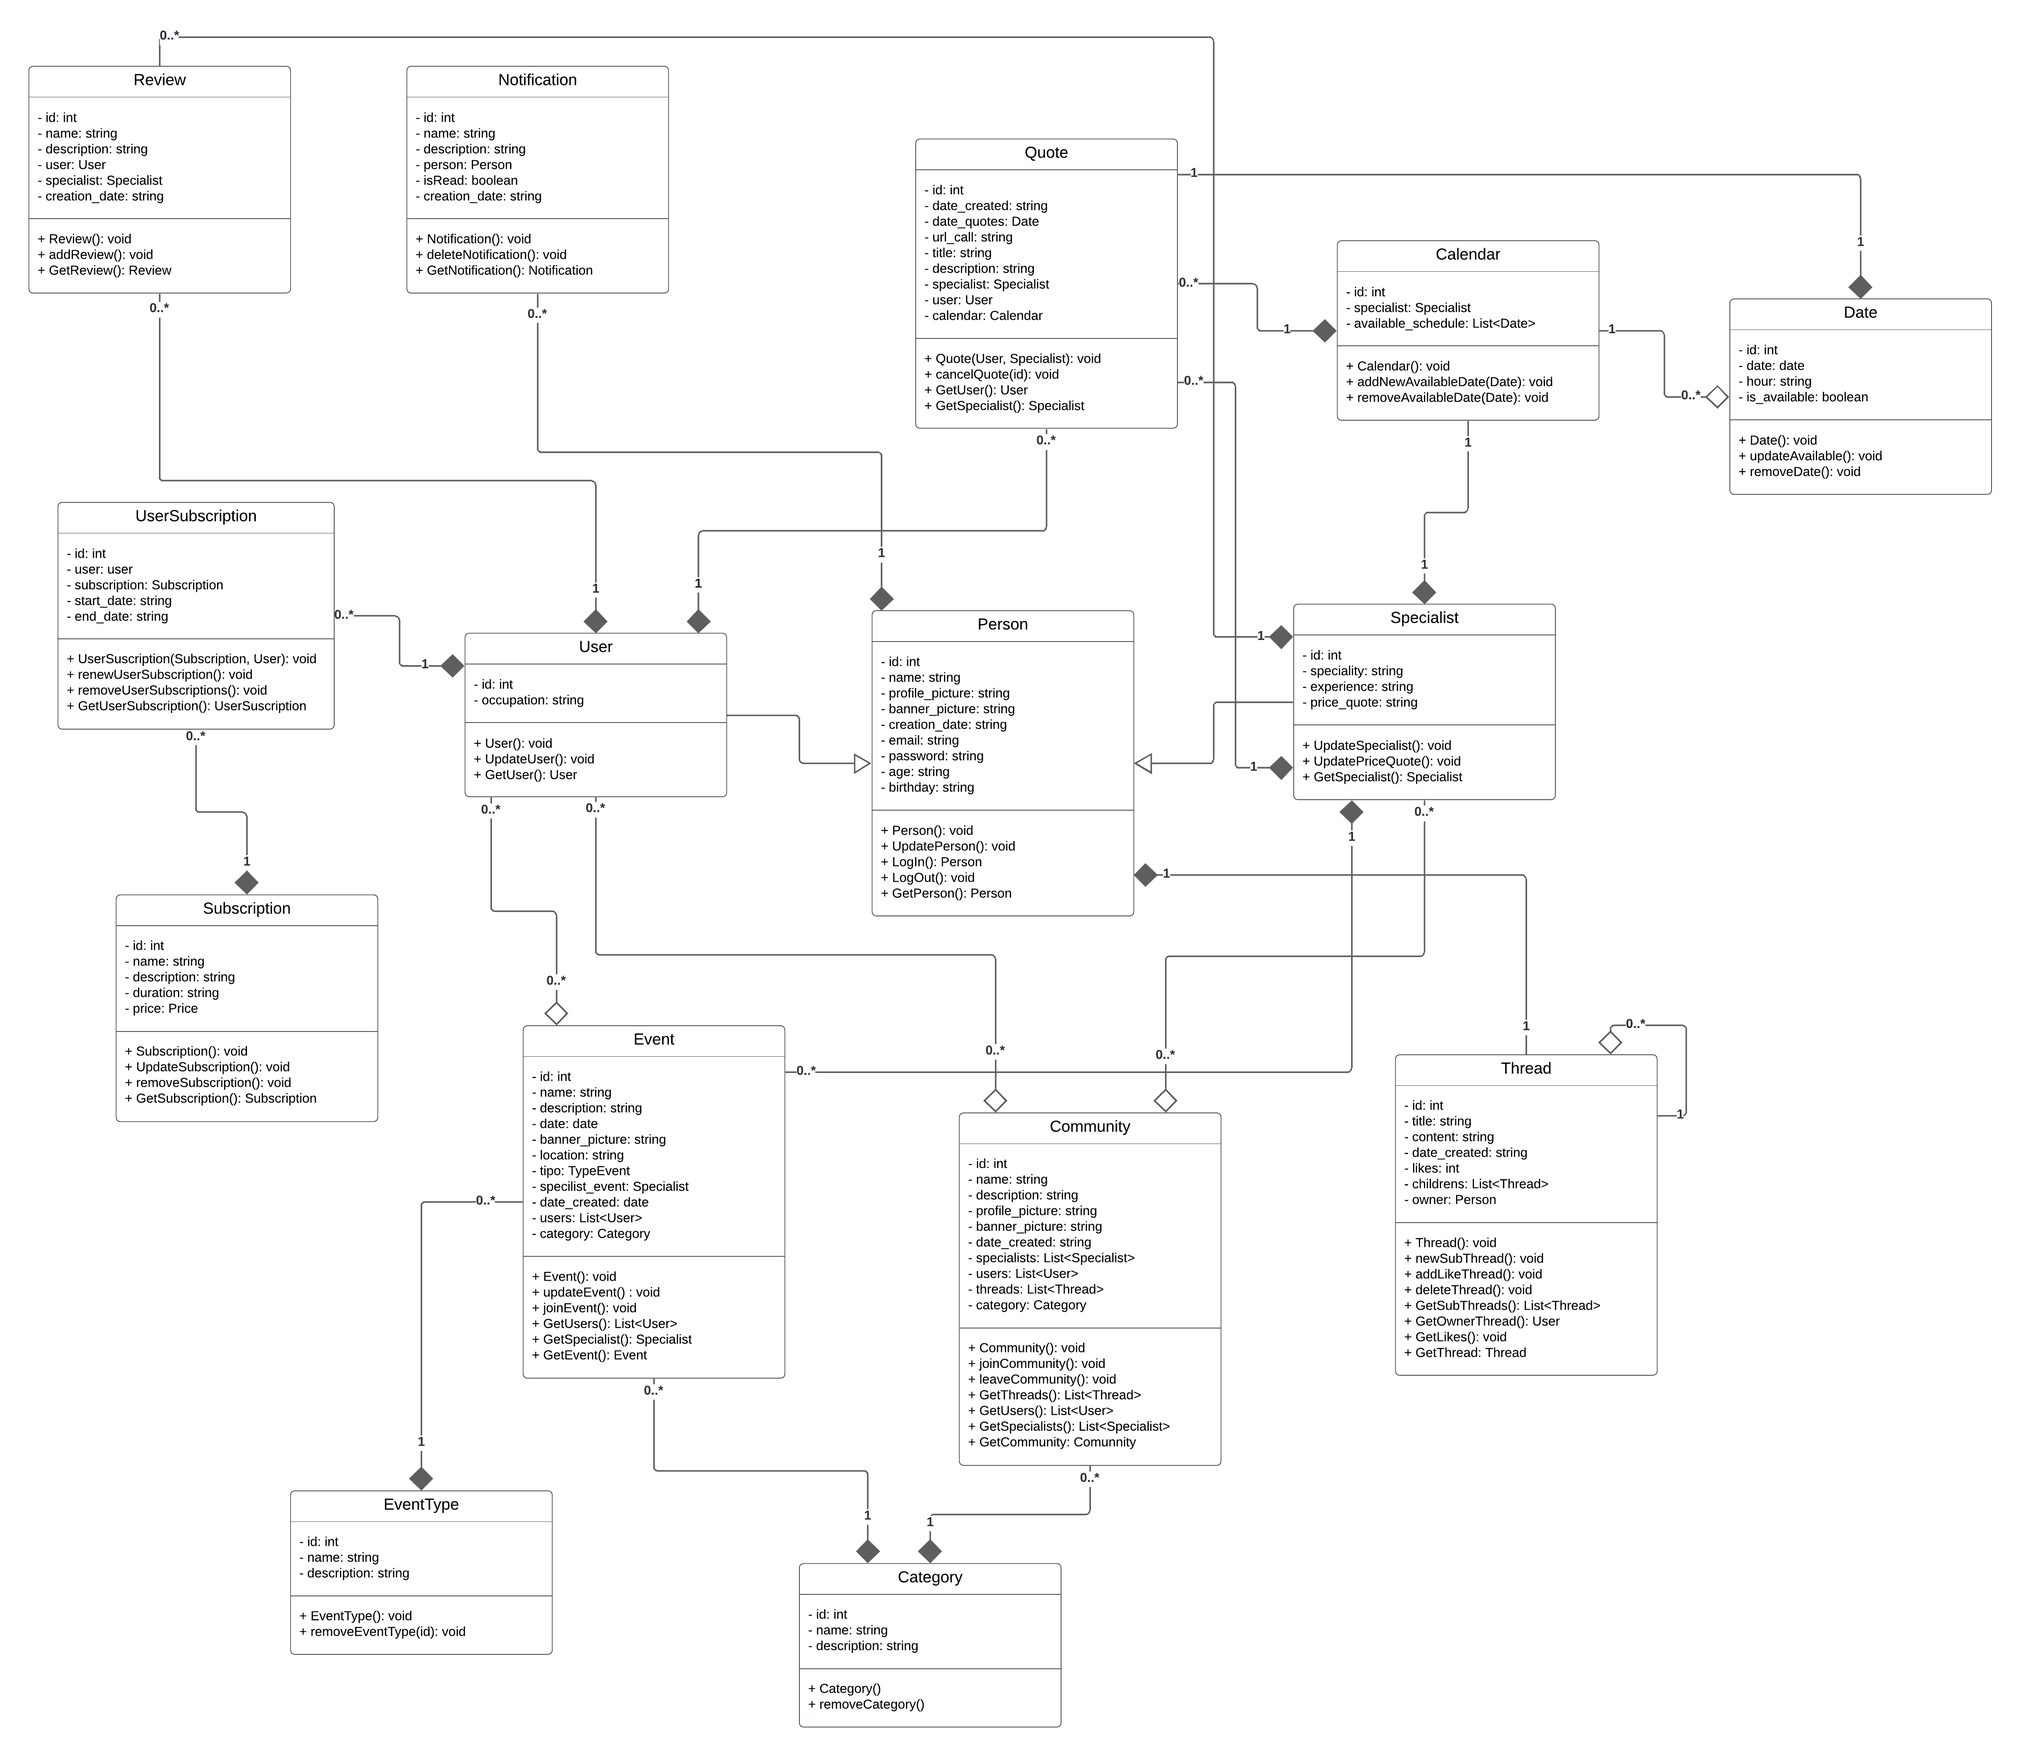
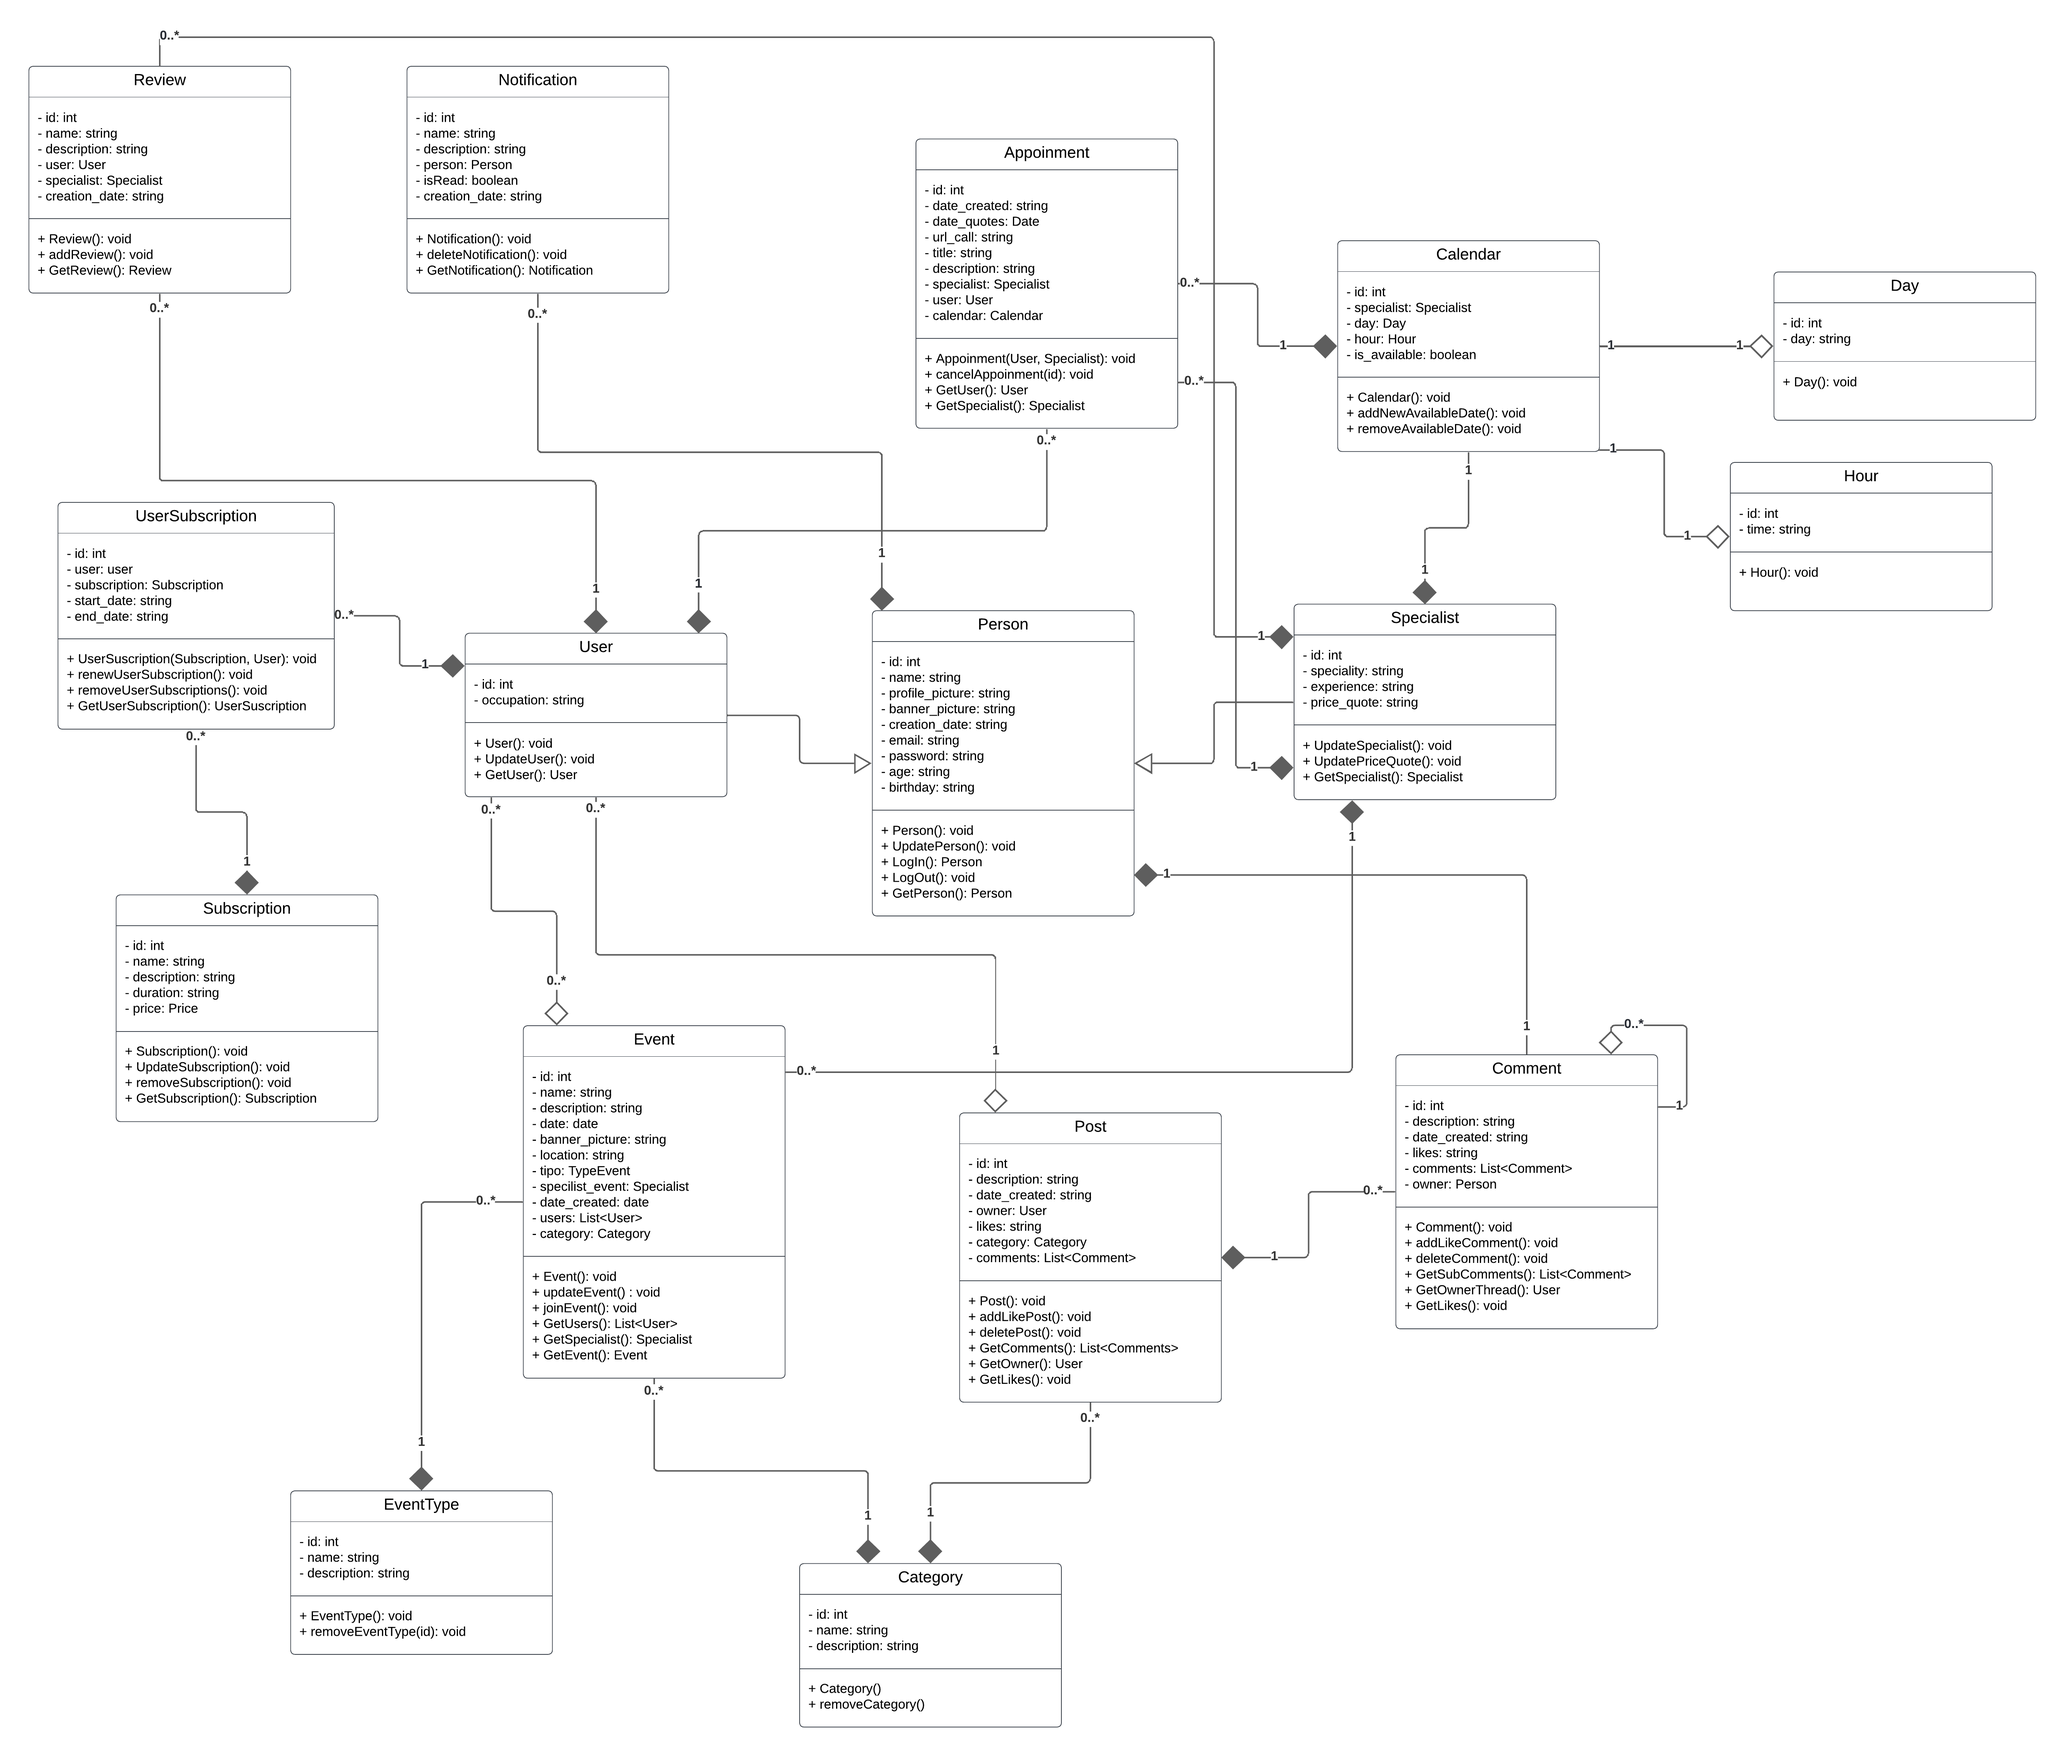
feat: modify database diagram and class diagram

diff --git a/README.md b/README.md
@@ -1206,14 +1206,14 @@ La clase User representa a los usuarios regulares del sistema. Estos usuarios pu
 **Specialist:** <br>
 La clase Specialist representa a los profesionales de la salud mental que ofrecen sus servicios en la plataforma. Estos especialistas pueden iniciar sesión en el sistema, listar los eventos que organizan, ver las citas programadas con sus pacientes y acceder a los perfiles de los pacientes. Además, pueden participar en comunidades para brindar apoyo y asesoramiento a los usuarios regulares en temas relacionados con la salud mental.
 
-**Community:** <br>
-La clase Comunidad representa grupos de usuarios que se reúnen en la plataforma para discutir temas relacionados con la salud mental, compartir experiencias y brindarse apoyo mutuo. Los usuarios regulares pueden unirse a estas comunidades para conectarse con otros usuarios, buscar apoyo emocional y participar en discusiones grupales. Los especialistas también pueden participar en comunidades para ofrecer asesoramiento y orientación a los usuarios en busca de ayuda.
+**Post:** <br>
+Un Post es una publicación realizada en el foro. Suele estar destinado a ser compartido con otros usuarios. Los posts estan ralacionados a la salud mental y emocional y pueden generar comentarios y discusiones entre los usuarios.
 
 **Event:** <br>
 La clase Event representa eventos organizados en la plataforma, que pueden incluir talleres, charlas, sesiones de terapia grupales, etc. Los eventos pueden ser creados tanto por usuarios especialistas como por administradores del sistema. Pueden tener una variedad de atributos como nombre, fecha, ubicación y tipo. Los usuarios pueden asistir a estos eventos para obtener información, participar en actividades grupales y recibir apoyo de especialistas y otros participantes.
 
-**Thread:** <br>
-La clase Thread representa una conversación o tema de discusión dentro de una comunidad. Cada hilo puede contener mensajes o respuestas de usuarios y puede estar relacionado con un tema específico relacionado con la salud mental. Los usuarios pueden crear nuevos hilos, responder a hilos existentes y participar en discusiones dentro de la comunidad.
+**Comment:** <br>
+La clase Comment representa un comentario dentro de un post. Cada comentario puede contener mensajes o respuestas de usuarios y puede estar relacionado con un tema específico relacionado con la salud mental.
 
 **Date:** <br>
 La clase Date representa fechas disponibles para citas con especialistas. Estas fechas pueden ser definidas por los especialistas como horarios disponibles para atender a sus pacientes. Los usuarios pueden seleccionar estas fechas para reservar citas.
@@ -1245,7 +1245,7 @@ La clase Notification esta ascociada a los Usarios y los Especialista, estos pue
 
 ### 4.8.1. Database Diagram.
 
-<img src="./assets/database_diagram.png" alt="Image of Class Diagram" style="width:100%">
+<img src="./assets/database_diagram.png" alt="Image of Database Diagram" style="width:100%">
 
 # Capítulo V: Product Implementation, Validation & Deployment
 
